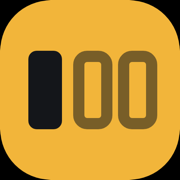
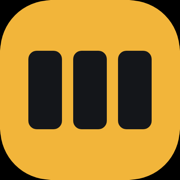
Mark: all three slots filled (#7)
The favicon, app icons and org avatar showed the mark mid-decode: one solid
glyph and two empty boxes, which reads as unfinished at tab and list size.
All three slots are now solid, evenly spaced. The wordmark on the page and
on the OG card still starts as empty boxes and resolves; that is where the
decode is shown.

Re-rendered with tools/render-og.sh: apple-touch-icon.png, icon-512.png,
org-avatar.png (og.png and readme-banner.png re-render unchanged in design).

Changed region(s): [[0.3889, 0.2778, 0.8889, 0.7222]]

diff --git a/tools/avatar-render.html b/tools/avatar-render.html
@@ -13,8 +13,8 @@
   <svg viewBox="0 0 32 32" role="img" aria-label="promptdecode">
     <rect width="32" height="32" rx="9" fill="#f2b53a"/>
     <rect x="5" y="9" width="6" height="14" rx="1.5" fill="#14161a"/>
-    <rect x="14" y="10" width="5" height="12" rx="1.5" fill="none" stroke="#14161a" stroke-width="2" stroke-opacity=".55"/>
-    <rect x="22" y="10" width="5" height="12" rx="1.5" fill="none" stroke="#14161a" stroke-width="2" stroke-opacity=".55"/>
+    <rect x="13" y="9" width="6" height="14" rx="1.5" fill="#14161a"/>
+    <rect x="21" y="9" width="6" height="14" rx="1.5" fill="#14161a"/>
   </svg>
 </div>
 </body></html>
